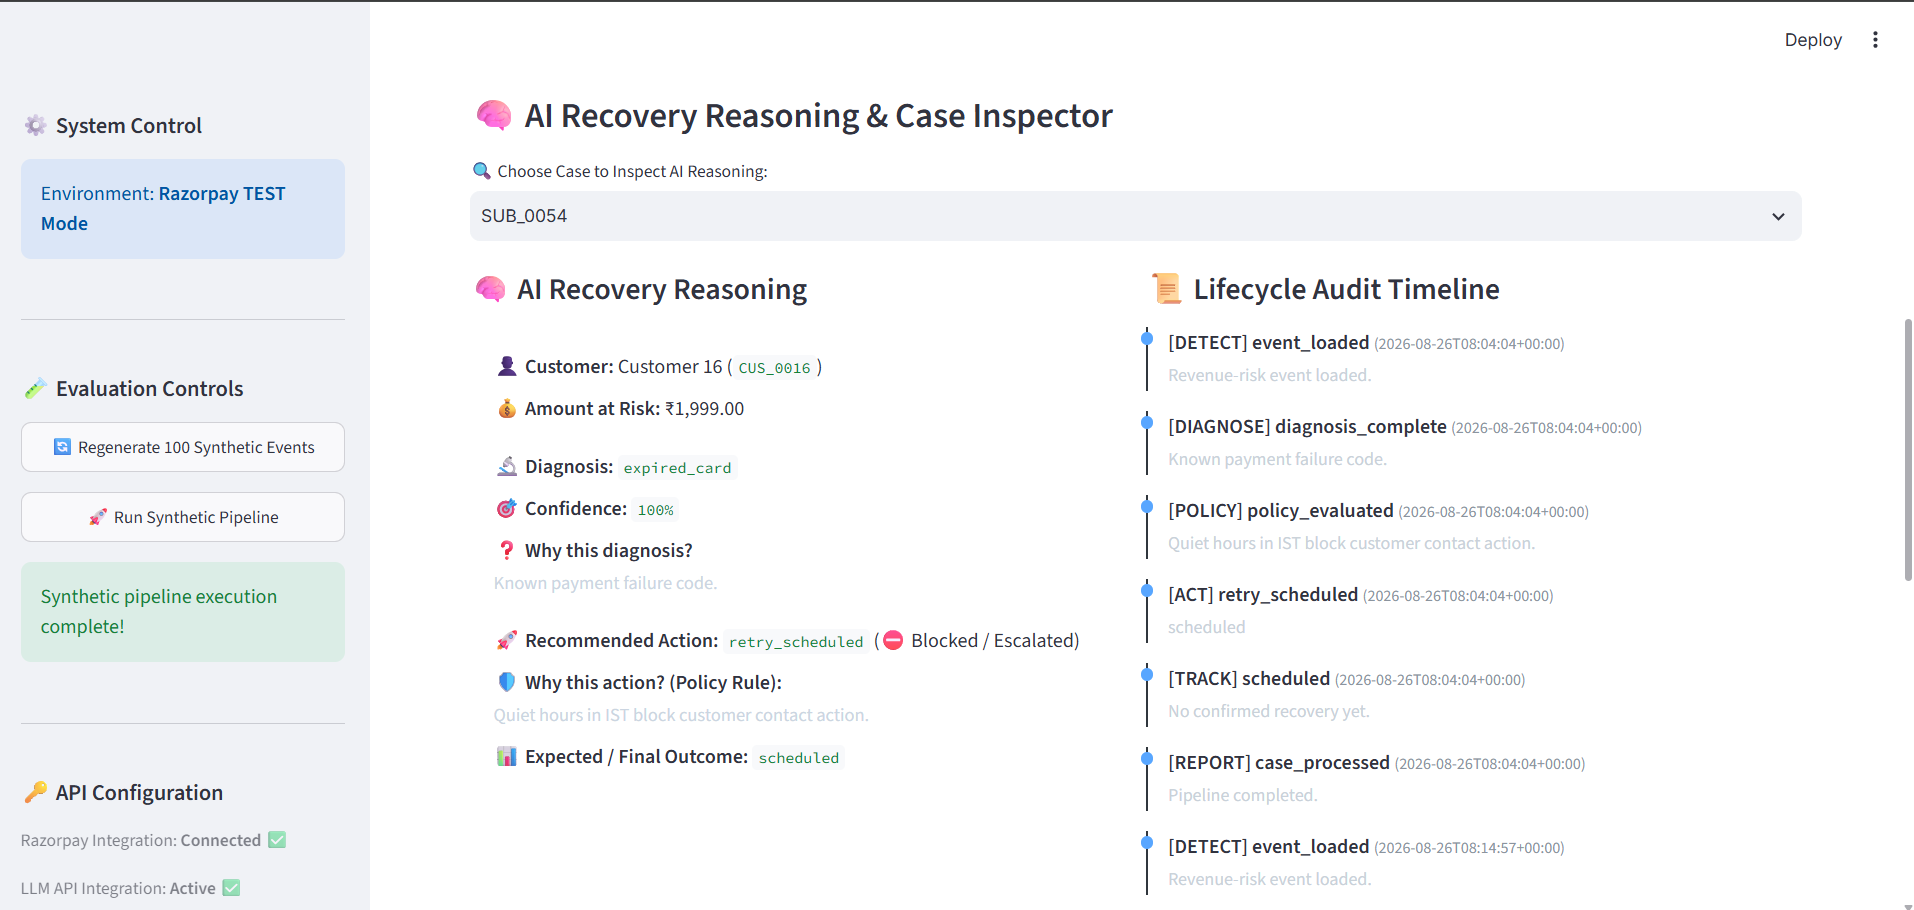
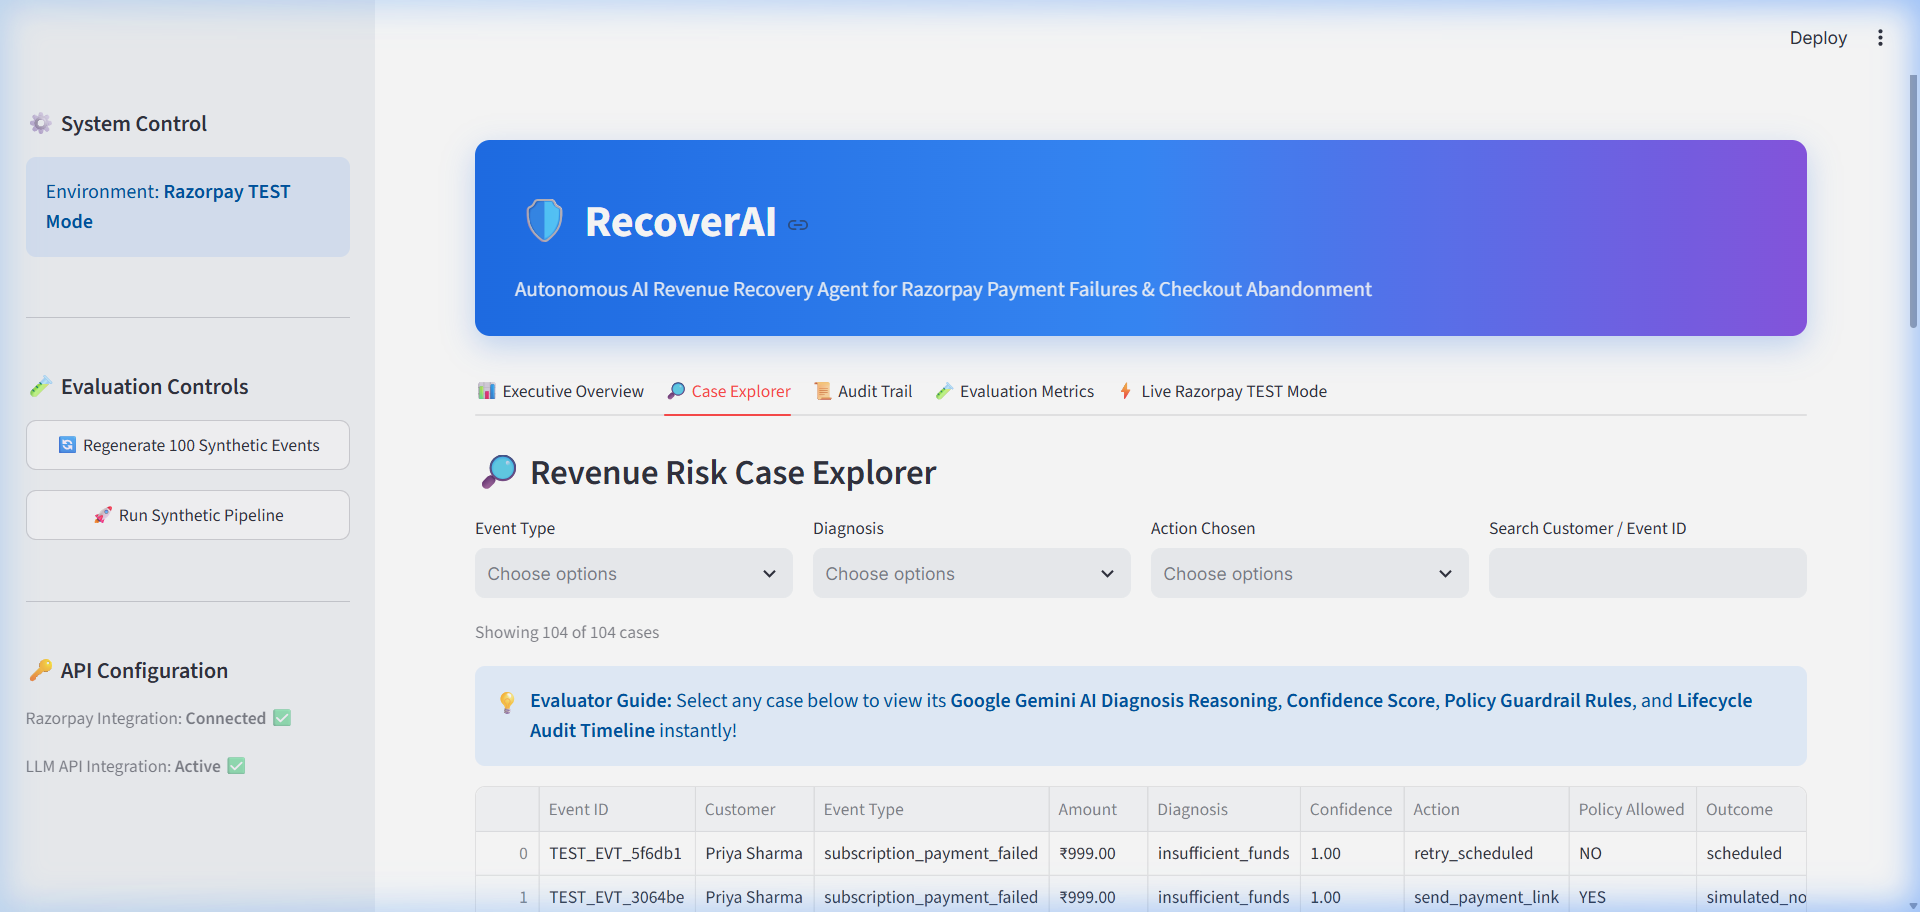
docs: verify webhook provenance, regenerate dashboard screenshots, and update README

diff --git a/README.md b/README.md
@@ -188,7 +188,7 @@ RecoverAI evaluates synthetic batch benchmark performance separately from live i
 ### 2. Live Razorpay TEST Mode Sandbox Integration
 - **Interactive TEST Events:** 4 live events generated during UI sandbox testing.
 - **Razorpay TEST Payment Links Generated:** Active links created via `razorpay` SDK (`https://rzp.io/rzp/...`).
-- **Webhook Verified Recoveries:** 1 event (`₹999.00`) confirmed paid via HMAC signature verification.
+- **Webhook Handler Verified:** 1 simulated payment_link.paid event processed with valid HMAC signature and idempotency protection via the internal webhook simulator.
 - **Confirmed Real Currency Recovered:** `₹0.00` (all transactions operate strictly in Razorpay TEST mode sandbox without actual fiat currency transfers).
 
 ---
